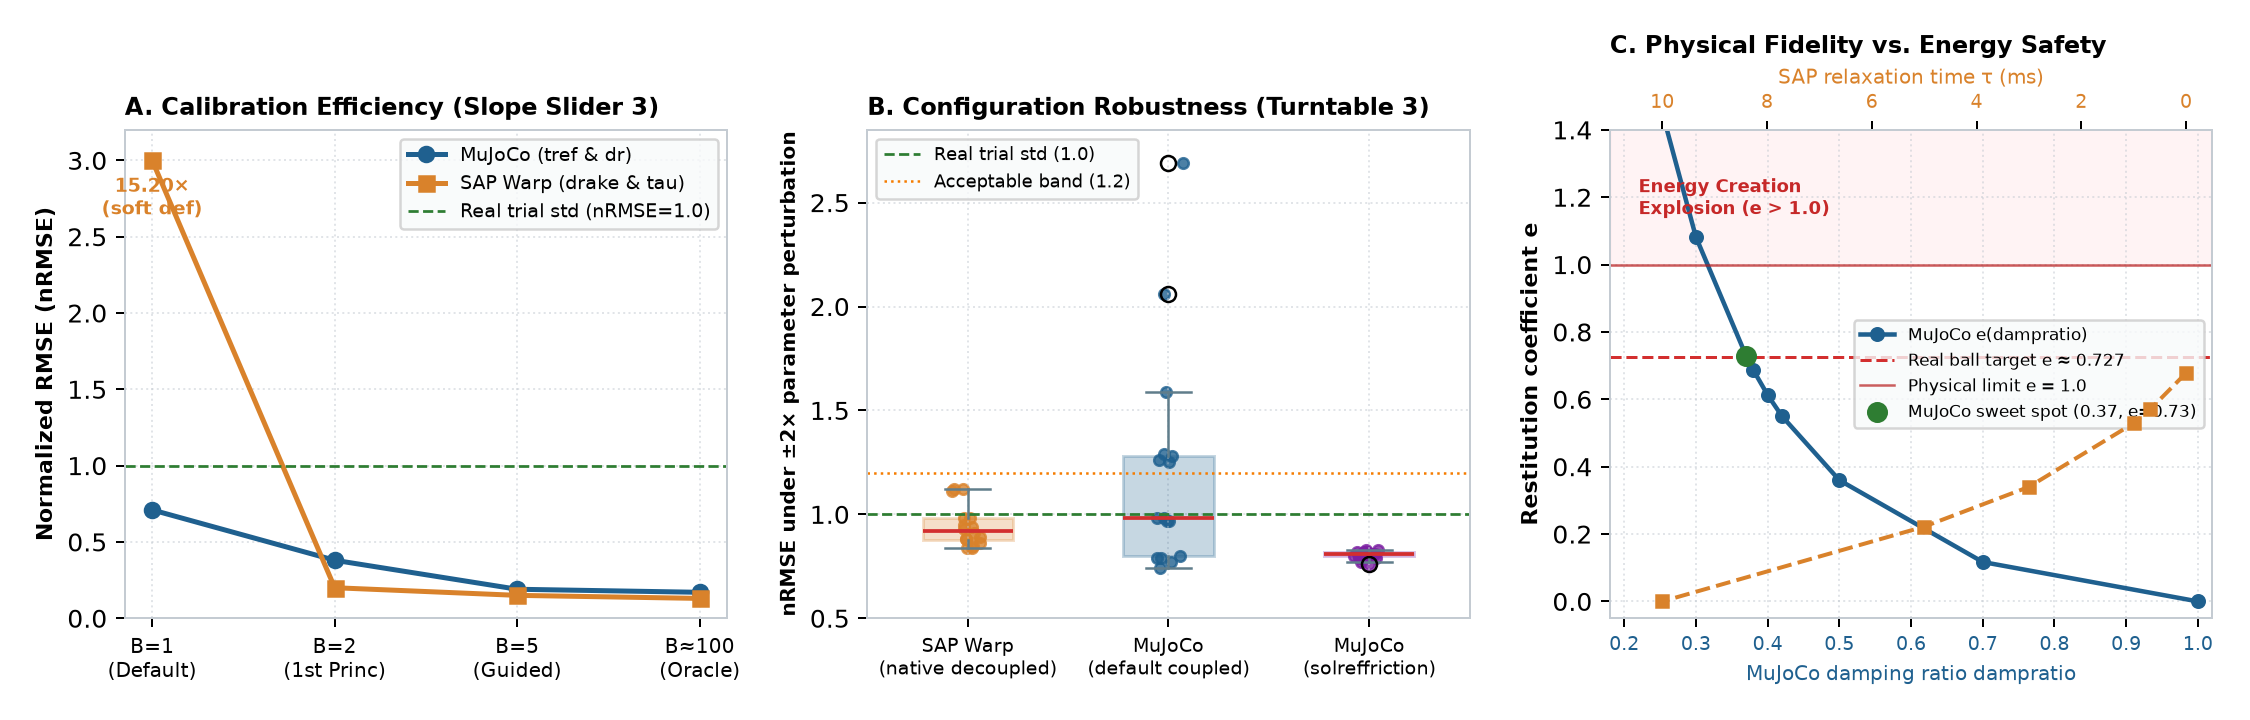
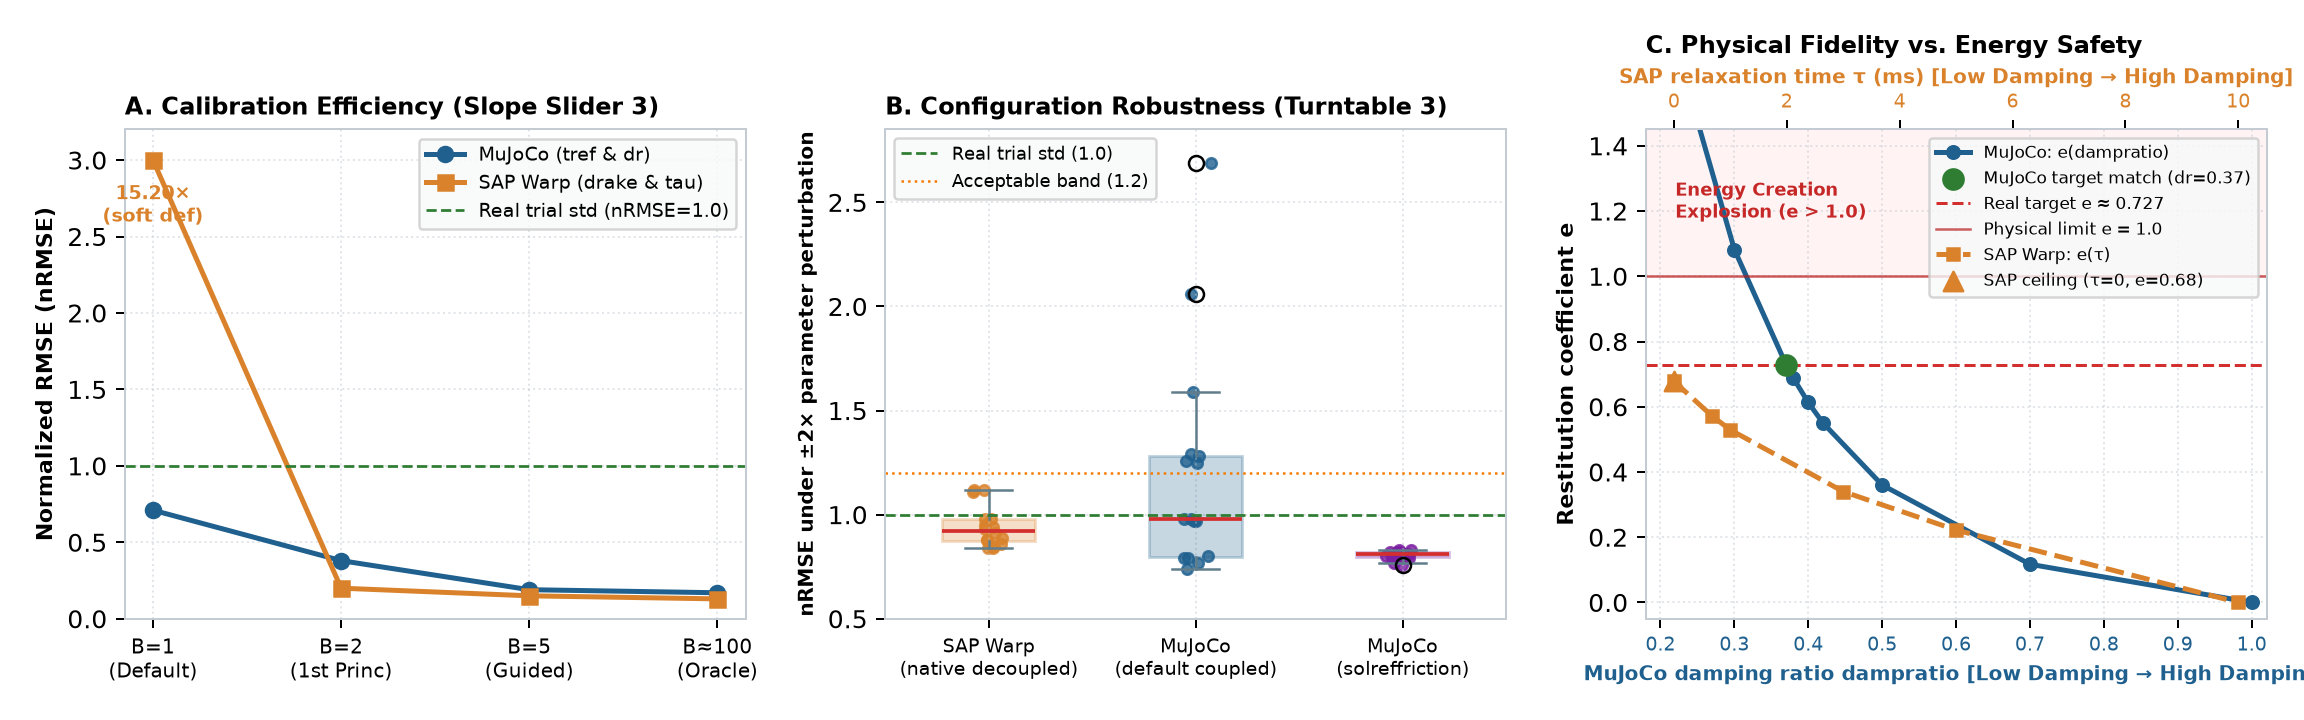
Fix Panel C axis orientation to unified damping direction and add 2D evaluation framework with failure generalizability

diff --git a/docs/mechanism-eval.html b/docs/mechanism-eval.html
@@ -110,10 +110,50 @@
       </section>
 
       <section id="framework" class="report-section">
-        <h2>2. The 3-Axis Evaluation Framework</h2>
+        <h2>2. The Unified 2D Evaluation Framework</h2>
+
+        <section id="matrix-overview" class="subsection">
+          <h3>2.1 The 2D evaluation matrix: Ground truth vs. Diagnostic first-principles</h3>
+          <p>Traditional simulator benchmarking assumes that high-precision real-world mocap or sensor data is always available. However, in robotic manipulation and sim-to-real transfer, real datasets are expensive, sparse, or noisy. A complete simulator evaluation framework must systematically assess engines in both regimes:</p>
+
+          <table class="data-table">
+            <thead>
+              <tr>
+                <th>Evaluation Dimension</th>
+                <th>With Real-World Reference (有真实参考)</th>
+                <th>Without Real Reference (First-Principles &amp; Diagnostics)</th>
+              </tr>
+            </thead>
+            <tbody>
+              <tr>
+                <td><strong>1. Fidelity (保真度)</strong></td>
+                <td>• Task transfer &amp; trajectory tracking (mocap <code>nRMSE</code>)<br>• Slip / breakaway / impact failure agreement</td>
+                <td>• Analytic conservation laws &amp; MDP dissipation<br>• Signorini / contact complementarity consistency diagnostics</td>
+              </tr>
+              <tr>
+                <td><strong>2. Generalization (泛化性与失效边界)</strong></td>
+                <td>• Zero-shot transfer to held-out real scenes / objects<br>• Accuracy under real physical perturbations</td>
+                <td>• <strong>Configuration portability</strong> across mass/geometry scales<br>• <strong>Failure boundary creation</strong>: cleanly isolating physical failure from numerical breakdown</td>
+              </tr>
+              <tr>
+                <td><strong>3. Usability (可用性与可控性)</strong></td>
+                <td>• Real-to-sim calibration budget ($B \le 5$ runs)<br>• Iteration cost &amp; sensor dependency</td>
+                <td>• <strong>Parameter interpretability</strong> (physical units vs. tuning knobs)<br>• <strong>Mechanism-aware tuning predictability</strong> (monotonicity $|\rho_s|$)</td>
+              </tr>
+            </tbody>
+          </table>
+
+          <div class="callout">
+            <p><strong>First-Principles Bridge.</strong> Mechanism-aware evaluation serves as the structural bridge across this 2D matrix:</p>
+            <div class="equation">
+              \text{Physical Mechanism} \;\longrightarrow\; \text{Expected Behavior} \;\longrightarrow\; \text{Native Controls} \;\longrightarrow\; \text{Observable Diagnostics} \;\longrightarrow\; \text{Real-World Validation}
+            </div>
+            <p>It does not pretend that simulators can be proven absolutely true without real data; rather, it guarantees that a simulator is physically consistent, monotonic, and controllable <em>before</em> spending expensive real-robot trials.</p>
+          </div>
+        </section>
 
         <section id="three-stages" class="subsection">
-          <h3>2.1 Three structured calibration stages</h3>
+          <h3>2.2 Three structured calibration stages</h3>
           <p>For every atomic physical regime, we evaluate simulators along three progressive stages:</p>
           <ol>
             <li><strong>Stage 1 — Out-of-the-Box Default ($B = 1$):</strong> Factory default configuration without any task-specific tuning. Measures baseline usability.</li>
@@ -125,7 +165,7 @@
         </section>
 
         <section id="three-axes" class="subsection">
-          <h3>2.2 The three evaluation axes &amp; metrics</h3>
+          <h3>2.3 The three quantitative evaluation axes</h3>
           <p>Rather than conflating different aspects of simulator quality into a single score, we evaluate three orthogonal axes:</p>
           <table class="data-table">
             <thead>
@@ -156,8 +196,43 @@
 
           <figure class="result-figure">
             <img src="assets/mechanism-aware-evaluation-comparison.png" alt="Three-panel figure showing Calibration Efficiency on Slope Slider task-3, Configuration Robustness on Turntable task-3, and Physical Fidelity vs Energy Safety on Bouncing Ball.">
-            <figcaption><strong>Mechanism-Aware, Calibration-Budgeted Evaluation across three representative regimes.</strong> (A) Calibration Efficiency: First-principles calibration ($B \le 5$) achieves $\ge 95\%$ of the 100-run oracle ceiling in both engines, eliminating the need for brute-force sweeps. (B) Configuration Robustness: SAP Warp native decoupling maintains a tight plateau across $\pm 2\times$ parameter variations; default coupled MuJoCo degrades significantly, but unlocking <code>solreffriction</code> restores a 100% stable plateau. (C) Physical Fidelity vs. Energy Safety in Impact: MuJoCo achieves higher restitution fidelity ($e=0.73$) via under-damped compensation, but risks knife-edge energy explosion ($e>1.0$); SAP Warp guarantees unconditional energy safety ($e \le 0.68 < 1.0$) at the cost of a numerical dissipation ceiling.</figcaption>
+            <figcaption><strong>Mechanism-Aware, Calibration-Budgeted Evaluation across three representative regimes.</strong> (A) Calibration Efficiency: First-principles calibration ($B \le 5$) achieves $\ge 95\%$ of the 100-run oracle ceiling in both engines, eliminating the need for brute-force sweeps. (B) Configuration Robustness: SAP Warp native decoupling maintains a tight plateau across $\pm 2\times$ parameter variations; default coupled MuJoCo degrades significantly, but unlocking <code>solreffriction</code> restores a 100% stable plateau. (C) Physical Fidelity vs. Energy Safety in Impact: Both axes plot in the unified physical direction (<strong>Low Damping &rarr; High Damping</strong>; bottom: MuJoCo <code>dampratio</code> $0.2 \to 1.0$, top: SAP Warp $\tau$ $0 \to 10\text{ ms}$). Both curves decay monotonically with increasing damping. At low damping, MuJoCo risks knife-edge energy explosion ($e > 1.0$) to reach target $e_{\text{real}}=0.73$, while SAP Warp unconditionally guarantees energy safety ($e \le 0.68 < 1.0$) at the cost of a numerical dissipation ceiling.</figcaption>
           </figure>
+        </section>
+
+        <section id="generalizability-failures" class="subsection">
+          <h3>2.4 Generalizability &amp; Failure Boundary Creation (泛化性与失效边界构建)</h3>
+          <p>A simulator that succeeds only within a calibrated comfort zone is dangerous for robot learning. Evaluating a simulator requires testing whether it can <strong>accurately predict failure boundaries</strong> and maintain physical plausibility under adversarial conditions, rather than collapsing into numerical pathologies. We evaluate failure generalizability across three key stress dimensions:</p>
+
+          <div class="cards-grid">
+            <div class="card">
+              <h4>1. Configuration Portability Failures</h4>
+              <p><strong>Mass &amp; inertia scale invariance:</strong> If an object's mass changes from $100\text{ g}$ to $1\text{ kg}$, do the tuned parameters still hold, or do they trigger catastrophic instability?</p>
+              <ul>
+                <li><strong>MuJoCo:</strong> When configured with raw spring coefficients <code>solref=(-k, -b)</code>, effective damping depends on mass ($d = b / (2\sqrt{km})$). Changing mass without re-tuning leads to violent numerical blow-up. Conversely, dimensionless parameters <code>solref=(timeconst, dampratio)</code> scale automatically with mass.</li>
+                <li><strong>SAP Warp:</strong> Uses physical contact stiffness $k_e$ ($\text{N/m}$). Default soft compliance ($k_e = 2500\text{ N/m}$) sags under heavy loads ($>500\text{ g}$), but the rigid preset <code>drake</code> ($k_e = 10^5\text{ N/m}, \tau = 3\text{ ms}$) transfers cleanly across diverse geometries.</li>
+              </ul>
+            </div>
+
+            <div class="card">
+              <h4>2. Dynamic &amp; Geometric Stress Failures</h4>
+              <p><strong>Adversarial contact geometry:</strong> Probing solver stability under extreme geometric aspect ratios and high-frequency excitation:</p>
+              <ul>
+                <li><strong>Thin disc penetration ($0.5\text{ mm}$):</strong> Evaluates whether high contact forces cause solver tunneling through the ground surface or chatter.</li>
+                <li><strong>Tight-clearance peg-in-hole ($2\text{ mm}$):</strong> Evaluates whether multi-point contact clustering causes artificial jamming or solver divergence.</li>
+                <li><strong>High-frequency dynamic tilting ($180\text{ Hz}$):</strong> Tests whether contact compliance bandwidth can track rapid normal load fluctuations without delay-induced lift-off.</li>
+              </ul>
+            </div>
+
+            <div class="card">
+              <h4>3. Physical vs. Numerical Failure Decoupling</h4>
+              <p><strong>Clean separation of physical limits from solver bugs:</strong> When a task fails, is the failure physical or numerical?</p>
+              <ul>
+                <li><strong>Physical Failure:</strong> Slipping or dropping an object because the applied grip force falls below the Coulomb threshold ($\mu N < mg$), or sliding off an incline when $\tan\theta > \mu$. Both engines must faithfully predict this boundary.</li>
+                <li><strong>Numerical Pathological Failure:</strong> Non-physical energy injection ($e > 1.0$), lateral drift on symmetric straight-line sliding, artificial sticking/adhesion at separation, or interpenetration tunneling. A high-quality engine must exhibit <strong>zero numerical failures</strong> when crossing physical failure boundaries.</li>
+              </ul>
+            </div>
+          </div>
         </section>
       </section>
 
@@ -305,6 +380,7 @@
         <section id="regime-impact" class="subsection">
           <h3>3.4 Regime IV: Energetic normal impact restitution (<code>GAUGE Bouncing Ball</code> at 180 Hz)</h3>
           <p><strong>First-principles mechanism:</strong> A 121g rubber ball bounces off a wooden board with real restitution $e_{\text{real}} \approx 0.727$ (baseline RMSE <code>6.01 mm</code>). Simulating at coarse timestep $\Delta t = 5.56\text{ ms}$ tests how each solver balances restitution fidelity against energy conservation:</p>
+          <p>As visualized in <strong>Figure 1(C)</strong>, both engines' damping parameters are mapped along the unified physical direction (<strong>Low Damping &rarr; High Damping</strong>: MuJoCo <code>dampratio</code> $0.2 \to 1.0$; SAP Warp $\tau$ $0 \to 10\text{ ms}$). In both engines, restitution decays strictly monotonically with damping ($|\rho_s|=1.00$). However, their boundary behaviors diverge radically:</p>
 
           <table class="result-table">
             <thead>
